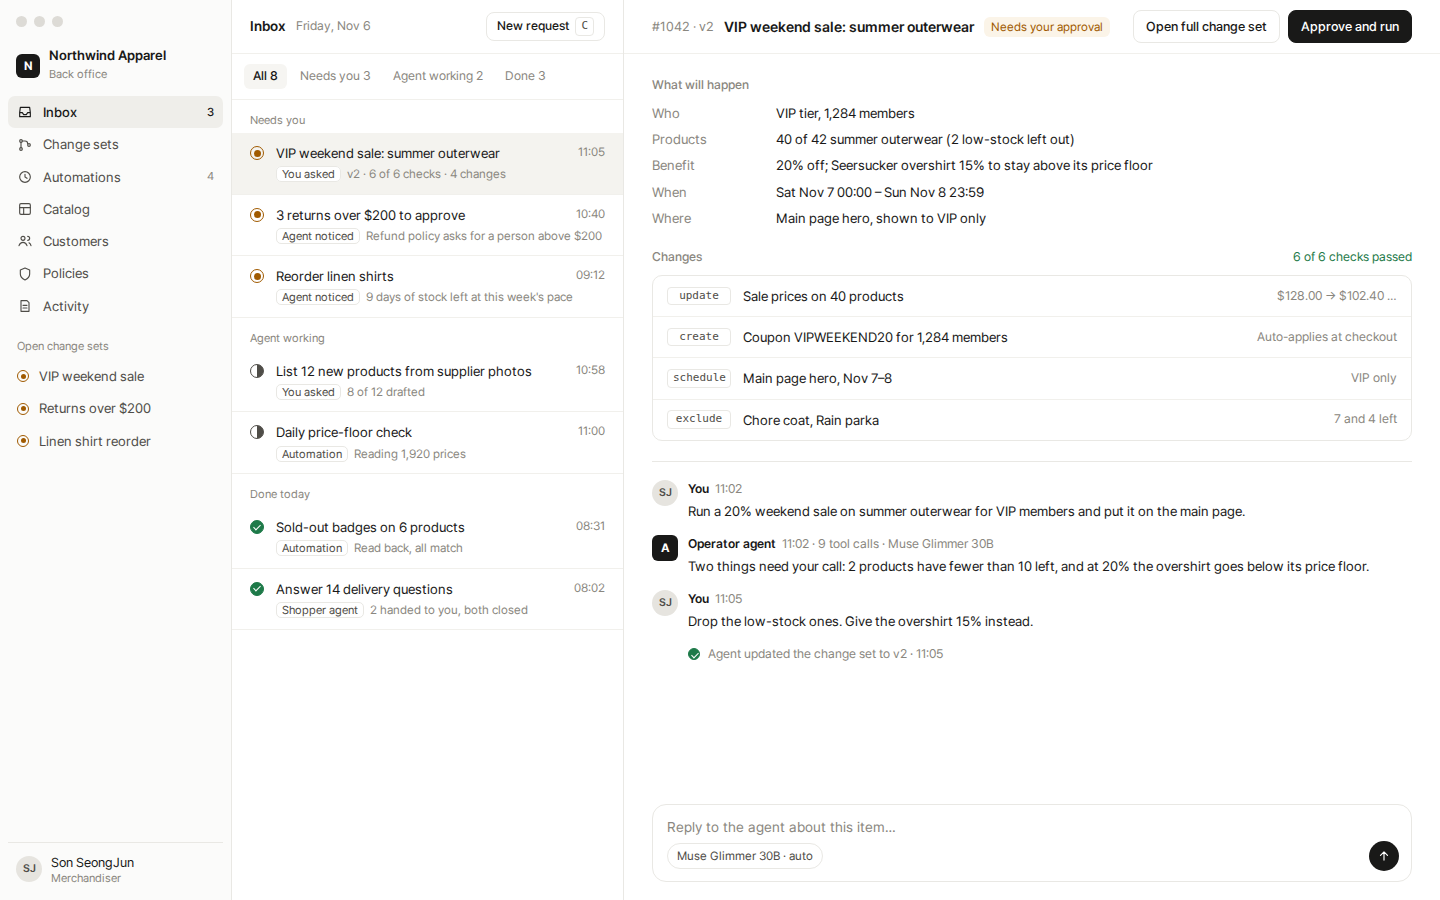
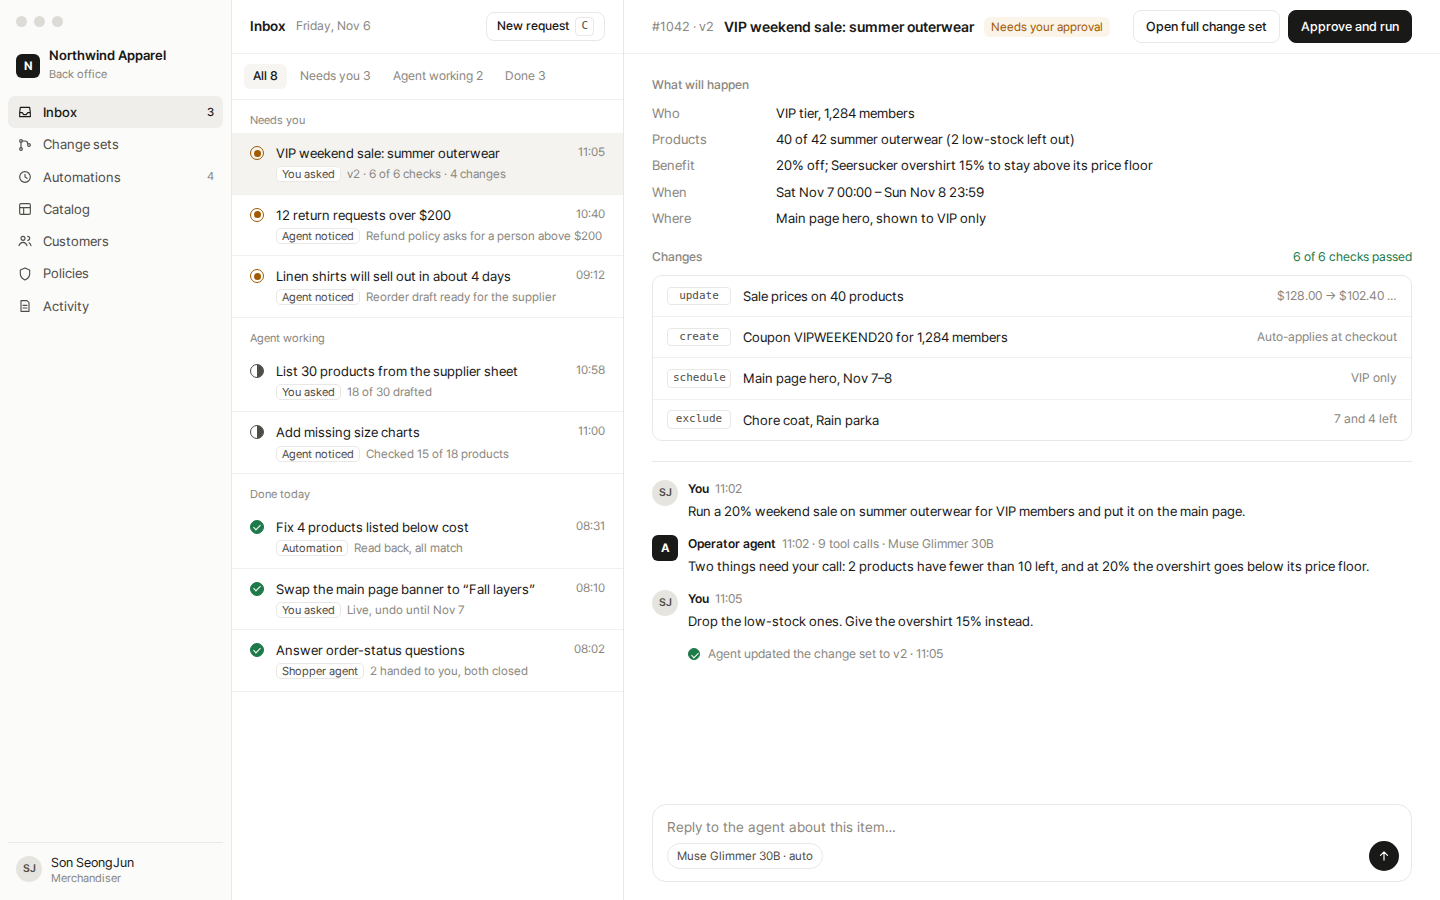
레이아웃 시안 재검토 반영: 숫자·흐름 불일치 6건 수정, 남은 과제 3건 기록
- B·E 작업 항목을 기존 inbox 시안과 일치(반품 3→12건, 리넨 9일→4일, 상품 12→30개 등)
- 진행 중 판촉 수 통일: D 표 헤더 '6 active'(실제 표 4건)→'4 running', A 점검 문구 3→4
- D 커맨드 바 기본 동작을 즉시 승인→변경 묶음 검토로(가격 40개 변경은 바로 승인 기본값이면 안 됨)
- C 제안 간 의존 표시(배너는 1번 가격 변경에 의존), 하나 거절 시 점검 재실행 안내
- E 제외 상품을 빨간 −2(삭제처럼 보임)→'2 left out', B·E 사이드바 중복 목록 제거
- 남은 것: 의도별 다른 UI 컴포넌트 화면 없음, 시간·호출 수는 예시값, 고객 화면은 이번 안에 없음

diff --git a/design/options/e-tasks.html b/design/options/e-tasks.html
@@ -45,17 +45,12 @@ body{background:#f1f0ec}
 <aside class="side">
   
   <div class="storesw"><span class="mark">N</span><div><b>Northwind Apparel</b><small>Back office</small></div></div>
-  <button class="nav on"><svg class="i" viewBox="0 0 24 24"><path d="M4 13h4l2 3h4l2-3h4M5 5h14l1 8v6H4v-6z"/></svg>Inbox<span class="cnt">3</span></button>
-  <button class="nav"><svg class="i" viewBox="0 0 24 24"><circle cx="6" cy="6" r="2"/><circle cx="6" cy="18" r="2"/><circle cx="18" cy="12" r="2"/><path d="M6 8v8M8 6h4a4 4 0 0 1 4 4"/></svg>Change sets</button>
+  <button class="nav on"><svg class="i" viewBox="0 0 24 24"><path d="M4 13h4l2 3h4l2-3h4M5 5h14l1 8v6H4v-6z"/></svg>Tasks<span class="cnt">3</span></button>
   <button class="nav"><svg class="i" viewBox="0 0 24 24"><circle cx="12" cy="12" r="8"/><path d="M12 8v4l3 2"/></svg>Automations<span class="cnt">4</span></button>
   <button class="nav"><svg class="i" viewBox="0 0 24 24"><rect x="4" y="4" width="16" height="16" rx="2"/><path d="M4 10h16M10 10v10"/></svg>Catalog</button>
   <button class="nav"><svg class="i" viewBox="0 0 24 24"><circle cx="9" cy="8" r="3"/><path d="M3 19c1-3 3.5-5 6-5s5 2 6 5M16 5a3 3 0 0 1 0 6M21 19c-.5-2-1.6-3.5-3-4.3"/></svg>Customers</button>
   <button class="nav"><svg class="i" viewBox="0 0 24 24"><path d="M12 3l7 3v6c0 4-3 7-7 9-4-2-7-5-7-9V6z"/></svg>Policies</button>
   <button class="nav"><svg class="i" viewBox="0 0 24 24"><path d="M6 4h9l3 3v13H6z"/><path d="M9 11h6M9 15h6"/></svg>Activity</button>
-  <div class="sect">Open change sets</div>
-  <button class="nav"><span class="st need" style="width:12px;height:12px"></span>VIP weekend sale</button>
-  <button class="nav"><span class="st need" style="width:12px;height:12px"></span>Returns over $200</button>
-  <button class="nav"><span class="st need" style="width:12px;height:12px"></span>Linen shirt reorder</button>
   <div class="me"><span class="av">SJ</span><div>Son SeongJun<small>Merchandiser</small></div></div>
 </aside>
 
@@ -66,19 +61,19 @@ body{background:#f1f0ec}
     <div class="sugg"><span class="chip">Plan a sale</span><span class="chip">List products from photos</span><span class="chip">Check returns waiting</span><span class="chip">Why did sales drop yesterday?</span></div>
     <div class="tl"><span class="on">Tasks</span><span>To review 3</span><span>Running 2</span><span>Live 14</span><span>Automations 4</span></div>
     <div class="task"><span class="st need"></span><span>VIP weekend sale: summer outerwear</span><small>You · 11:05 · v2 · 9 tool calls</small>
-      <span class="diff"><span class="add">~40 prices</span> <span class="add">+1 coupon</span><br><span class="add">+1 banner</span> <span class="del">−2 products</span></span>
+      <span class="diff"><span class="add">~40 prices</span> <span class="add">+1 coupon</span><br><span class="add">+1 banner</span> <span class="mute">2 left out</span></span>
       <span class="r"><span class="tag warn">Ready to review</span><small class="ok">6/6 checks</small></span></div>
-    <div class="task"><span class="st need"></span><span>3 returns over $200</span><small>Agent noticed · 10:40</small>
-      <span class="diff"><span class="add">3 refunds</span><br>$742.00</span>
+    <div class="task"><span class="st need"></span><span>12 return requests over $200</span><small>Agent noticed · 10:40</small>
+      <span class="diff"><span class="add">12 refunds</span><br>over $200 each</span>
       <span class="r"><span class="tag warn">Ready to review</span><small class="ok">4/4 checks</small></span></div>
-    <div class="task"><span class="st run"></span><span>List 12 new products from supplier photos</span><small>You · 10:58 · step 3 of 5, writing descriptions</small>
-      <span class="diff"><span class="add">+8 drafts</span><br>4 to go</span>
+    <div class="task"><span class="st run"></span><span>List 30 products from the supplier sheet</span><small>You · 10:58 · step 3 of 5, writing descriptions</small>
+      <span class="diff"><span class="add">+18 drafts</span><br>12 to go</span>
       <span class="r"><span class="tag">Running</span><small>about 2 min</small></span></div>
-    <div class="task"><span class="st run"></span><span>Daily price-floor check</span><small>Automation · 11:00</small>
-      <span class="diff">1,920 prices<br>read</span>
+    <div class="task"><span class="st run"></span><span>Add missing size charts</span><small>Agent noticed · 11:00</small>
+      <span class="diff">15 of 18<br>checked</span>
       <span class="r"><span class="tag">Running</span><small>no issues so far</small></span></div>
-    <div class="task"><span class="st done"></span><span>Sold-out badges on 6 products</span><small>Automation · 08:31 · read back, all match</small>
-      <span class="diff"><span class="add">+6 badges</span></span>
+    <div class="task"><span class="st done"></span><span>Fix 4 products listed below cost</span><small>Automation · 08:31 · read back, all match</small>
+      <span class="diff"><span class="add">~4 prices</span></span>
       <span class="r"><span class="tag ok">Live</span><small>Undo until Nov 7</small></span></div>
   </div></section>
  </div>

diff --git a/design/options/b-inbox.html b/design/options/b-inbox.html
@@ -57,10 +57,6 @@ h2 .r{margin-left:auto;font-weight:400}
   <button class="nav"><svg class="i" viewBox="0 0 24 24"><circle cx="9" cy="8" r="3"/><path d="M3 19c1-3 3.5-5 6-5s5 2 6 5M16 5a3 3 0 0 1 0 6M21 19c-.5-2-1.6-3.5-3-4.3"/></svg>Customers</button>
   <button class="nav"><svg class="i" viewBox="0 0 24 24"><path d="M12 3l7 3v6c0 4-3 7-7 9-4-2-7-5-7-9V6z"/></svg>Policies</button>
   <button class="nav"><svg class="i" viewBox="0 0 24 24"><path d="M6 4h9l3 3v13H6z"/><path d="M9 11h6M9 15h6"/></svg>Activity</button>
-  <div class="sect">Open change sets</div>
-  <button class="nav"><span class="st need" style="width:12px;height:12px"></span>VIP weekend sale</button>
-  <button class="nav"><span class="st need" style="width:12px;height:12px"></span>Returns over $200</button>
-  <button class="nav"><span class="st need" style="width:12px;height:12px"></span>Linen shirt reorder</button>
   <div class="me"><span class="av">SJ</span><div>Son SeongJun<small>Merchandiser</small></div></div>
 </aside>
 
@@ -69,14 +65,15 @@ h2 .r{margin-left:auto;font-weight:400}
   <div class="tabs"><span class="on">All 8</span><span>Needs you 3</span><span>Agent working 2</span><span>Done 3</span></div>
   <div class="grp">Needs you</div>
   <div class="row on"><span class="st need"></span><span>VIP weekend sale: summer outerwear</span><time>11:05</time><small><span class="src">You asked</span>v2 · 6 of 6 checks · 4 changes</small></div>
-  <div class="row"><span class="st need"></span><span>3 returns over $200 to approve</span><time>10:40</time><small><span class="src">Agent noticed</span>Refund policy asks for a person above $200</small></div>
-  <div class="row"><span class="st need"></span><span>Reorder linen shirts</span><time>09:12</time><small><span class="src">Agent noticed</span>9 days of stock left at this week's pace</small></div>
+  <div class="row"><span class="st need"></span><span>12 return requests over $200</span><time>10:40</time><small><span class="src">Agent noticed</span>Refund policy asks for a person above $200</small></div>
+  <div class="row"><span class="st need"></span><span>Linen shirts will sell out in about 4 days</span><time>09:12</time><small><span class="src">Agent noticed</span>Reorder draft ready for the supplier</small></div>
   <div class="grp">Agent working</div>
-  <div class="row"><span class="st run"></span><span>List 12 new products from supplier photos</span><time>10:58</time><small><span class="src">You asked</span>8 of 12 drafted</small></div>
-  <div class="row"><span class="st run"></span><span>Daily price-floor check</span><time>11:00</time><small><span class="src">Automation</span>Reading 1,920 prices</small></div>
+  <div class="row"><span class="st run"></span><span>List 30 products from the supplier sheet</span><time>10:58</time><small><span class="src">You asked</span>18 of 30 drafted</small></div>
+  <div class="row"><span class="st run"></span><span>Add missing size charts</span><time>11:00</time><small><span class="src">Agent noticed</span>Checked 15 of 18 products</small></div>
   <div class="grp">Done today</div>
-  <div class="row"><span class="st done"></span><span>Sold-out badges on 6 products</span><time>08:31</time><small><span class="src">Automation</span>Read back, all match</small></div>
-  <div class="row"><span class="st done"></span><span>Answer 14 delivery questions</span><time>08:02</time><small><span class="src">Shopper agent</span>2 handed to you, both closed</small></div>
+  <div class="row"><span class="st done"></span><span>Fix 4 products listed below cost</span><time>08:31</time><small><span class="src">Automation</span>Read back, all match</small></div>
+  <div class="row"><span class="st done"></span><span>Swap the main page banner to “Fall layers”</span><time>08:10</time><small><span class="src">You asked</span>Live, undo until Nov 7</small></div>
+  <div class="row"><span class="st done"></span><span>Answer order-status questions</span><time>08:02</time><small><span class="src">Shopper agent</span>2 handed to you, both closed</small></div>
 </section>
 <section class="det">
   <div class="dh"><span class="id">#1042 · v2</span><h1>VIP weekend sale: summer outerwear</h1><span class="tag warn">Needs your approval</span>

diff --git a/design/options/d-command.html b/design/options/d-command.html
@@ -53,7 +53,7 @@
 </aside>
 
 <section class="main">
-  <div class="mh"><b>Promotions</b><span class="mute" style="font-size:12.5px">6 active · 2 scheduled</span><button class="btn sm" style="margin-left:auto">Ask the agent <span class="kbd">⌥ Space</span></button></div>
+  <div class="mh"><b>Promotions</b><span class="mute" style="font-size:12.5px">4 running · 1 scheduled</span><button class="btn sm" style="margin-left:auto">Ask the agent <span class="kbd">⌥ Space</span></button></div>
   <div class="mb"><table>
     <tr><th>Name</th><th>Status</th><th>Who</th><th>When</th><th class="n">Orders</th><th class="n">Revenue</th></tr>
     <tr><td>Autumn knitwear 15%</td><td><span class="st2" style="background:var(--ok)"></span>Running</td><td>Everyone</td><td>Nov 1 – Nov 15</td><td class="n">412</td><td class="n">$38,920</td></tr>
@@ -75,8 +75,8 @@
     <div class="tools"><div><span>set_sale_prices</span><span>40 products</span></div><div><span>create_coupon</span><span>VIPWEEKEND20</span></div><div><span>schedule_banner</span><span>main page, VIP</span></div><div><span>verify_change_set</span><span>read everything back</span></div></div>
   </div>
   <div class="acts">
-    <div class="on"><svg class="i" viewBox="0 0 24 24"><path d="M5 12l4 4 10-10"/></svg>Approve and run<span class="kbd">⌘ ↵</span></div>
-    <div><svg class="i" viewBox="0 0 24 24"><rect x="4" y="4" width="16" height="16" rx="2"/><path d="M9 4v16"/></svg>Open the full change set<span class="kbd">↵</span></div>
+    <div class="on"><svg class="i" viewBox="0 0 24 24"><rect x="4" y="4" width="16" height="16" rx="2"/><path d="M9 4v16"/></svg>Review the change set<span class="mute" style="font-size:12px">changes 40 prices, so review comes first</span><span class="kbd">↵</span></div>
+    <div><svg class="i" viewBox="0 0 24 24"><path d="M5 12l4 4 10-10"/></svg>Approve and run<span class="kbd">⌘ ↵</span></div>
     <div><svg class="i" viewBox="0 0 24 24"><path d="M4 20h4L19 9l-4-4L4 16z"/></svg>Change something…<span class="kbd">Tab</span></div>
   </div>
   <div class="foot"><span>Muse Glimmer 30B · 9 tool calls · 3.8s</span><span style="margin-left:auto">⌥ Space from any app · Esc to close</span></div>

diff --git a/design/options/c-canvas.html b/design/options/c-canvas.html
@@ -91,9 +91,9 @@
     <div class="req">“Run a 20% weekend sale on summer outerwear for VIP members and put it on the main page.”</div>
     <div class="s"><span class="mk">1</span><div>Sale prices on 40 products</div><small>20%, overshirt 15% (price floor)</small><div class="act"><button class="btn sm">Accept</button><button class="btn sm">Reject</button><button class="btn sm">See all 40</button></div></div>
     <div class="s"><span class="mk">2</span><div>Coupon VIPWEEKEND20</div><small>1,284 VIP members · not with tier coupons</small><div class="act"><button class="btn sm">Accept</button><button class="btn sm">Reject</button></div></div>
-    <div class="s"><span class="mk">3</span><div>Main page hero, Nov 7–8</div><small>VIP only; guests keep the current hero</small><div class="act"><button class="btn sm">Accept</button><button class="btn sm">Reject</button></div></div>
+    <div class="s"><span class="mk">3</span><div>Main page hero, Nov 7–8</div><small>VIP only; guests keep the current hero. Depends on 1: the banner promises 20% off</small><div class="act"><button class="btn sm">Accept</button><button class="btn sm">Reject</button></div></div>
     <div class="s x"><span class="mk">–</span><div>Left out: Chore coat, Rain parka</div><small>Fewer than 10 left</small></div>
   </div>
-  <div class="rf"><span class="ok2">6 of 6 checks passed · read back after running</span><button class="btn dark" style="justify-content:center">Accept all and run</button><span class="mute" style="font-size:12px;text-align:center">Undo together until Nov 9, 23:59</span></div>
+  <div class="rf"><span class="ok2">6 of 6 checks passed · read back after running</span><span class="mute" style="font-size:12px">Rejecting one re-runs the checks on the rest</span><button class="btn dark" style="justify-content:center">Accept all and run</button><span class="mute" style="font-size:12px;text-align:center">Undo together until Nov 9, 23:59</span></div>
 </aside>
 </div></body></html>

diff --git a/design/mockups/changeset.html b/design/mockups/changeset.html
@@ -144,7 +144,7 @@ td.n,th.n{text-align:right;font-variant-numeric:tabular-nums}
         <div><span class="st done"></span><div>Discount within the VIP limit<small>Highest is 20%; policy allows 30%</small></div></div>
         <div><span class="st done"></span><div>No price below the floor<small>Overshirt moved to 15% to stay at cost + 15%</small></div></div>
         <div><span class="st done"></span><div>Enough stock<small>2 products under 10 units excluded</small></div></div>
-        <div><span class="st done"></span><div>No overlap with running promotions<small>Checked 3 active promotions</small></div></div>
+        <div><span class="st done"></span><div>No overlap with running promotions<small>Checked 4 running promotions</small></div></div>
         <div><span class="st done"></span><div>Coupon doesn't stack with tier coupons<small>Stacking policy: one member benefit per order</small></div></div>
         <div><span class="st done"></span><div>Main page slot is free<small>Hero slot open Nov 7–8</small></div></div>
       </div>

diff --git a/design/options/README.md b/design/options/README.md
@@ -17,3 +17,20 @@ These are not exclusive. One app can use E or B as home, A as the task view, C f
 Every option keeps the same parts: change set (interpretation, checks, grouped changes, preview, read-back, undo together), Linear-style status circles, and the model and tool-call count on each agent step. White background, no colored side bars, gradients, or shadows.
 
 Files: open the `.html` files in a browser; captures are 1440×900.
+
+## Review notes (Oct 27)
+
+Fixed:
+
+- B and E now show the same work items as the [inbox mockup](../mockups/inbox.png) (12 returns, linen shirts in about 4 days, 30 products from the supplier sheet, and so on).
+- The promotion count is the same everywhere: 4 running (D's table and A's overlap check).
+- D's default action is "Review the change set". Approving straight from the bar is still possible, but a change that moves 40 prices should not default to it.
+- C shows that suggestions depend on each other (the banner promises 20% off, so it needs the price change) and that rejecting one re-runs the checks.
+- E no longer shows left-out products as a deletion (red −2); they are "2 left out".
+- B and E drop the duplicate "Open change sets" list from the sidebar, since the inbox and task list already hold them.
+
+Still open:
+
+- Every option shows the same change set. None yet shows the agent picking a different component for a different task (for example, a returns review or a product draft). That is the "UI per intent" claim and needs its own screen.
+- Times and tool counts (3.8s, 9 tool calls) are illustrative, not measured.
+- Shopper side (storefront) is only in the earlier mockups, not in these options.
